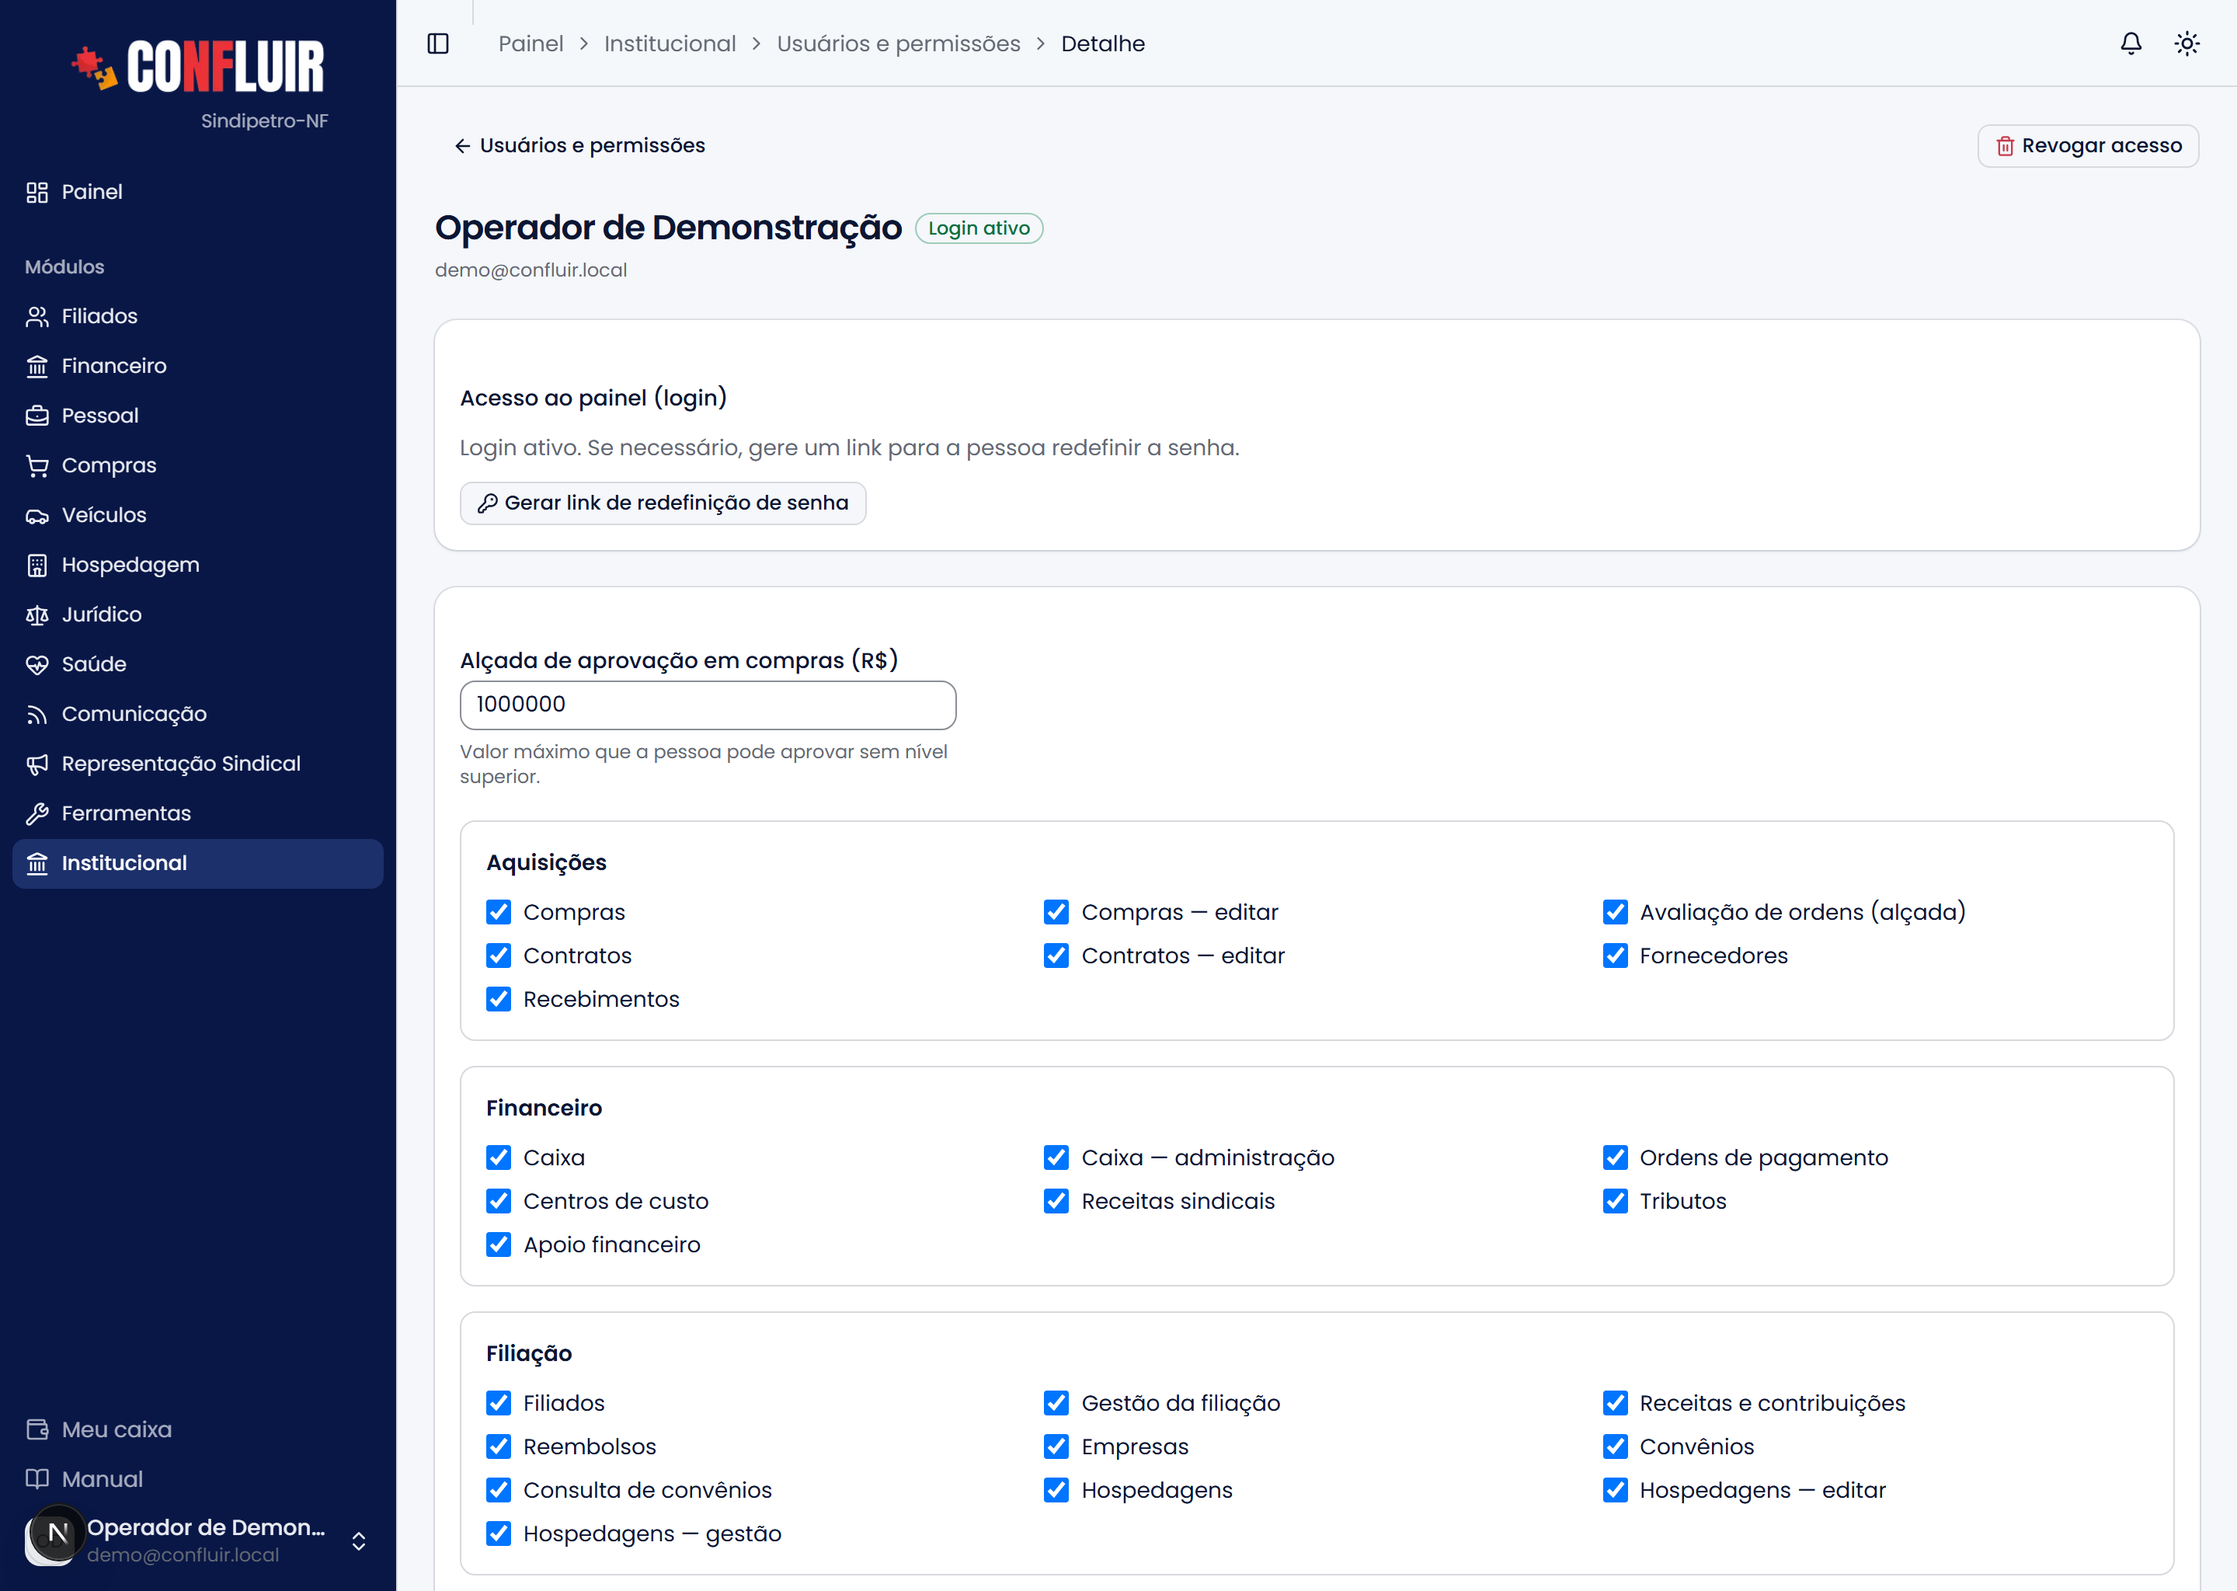
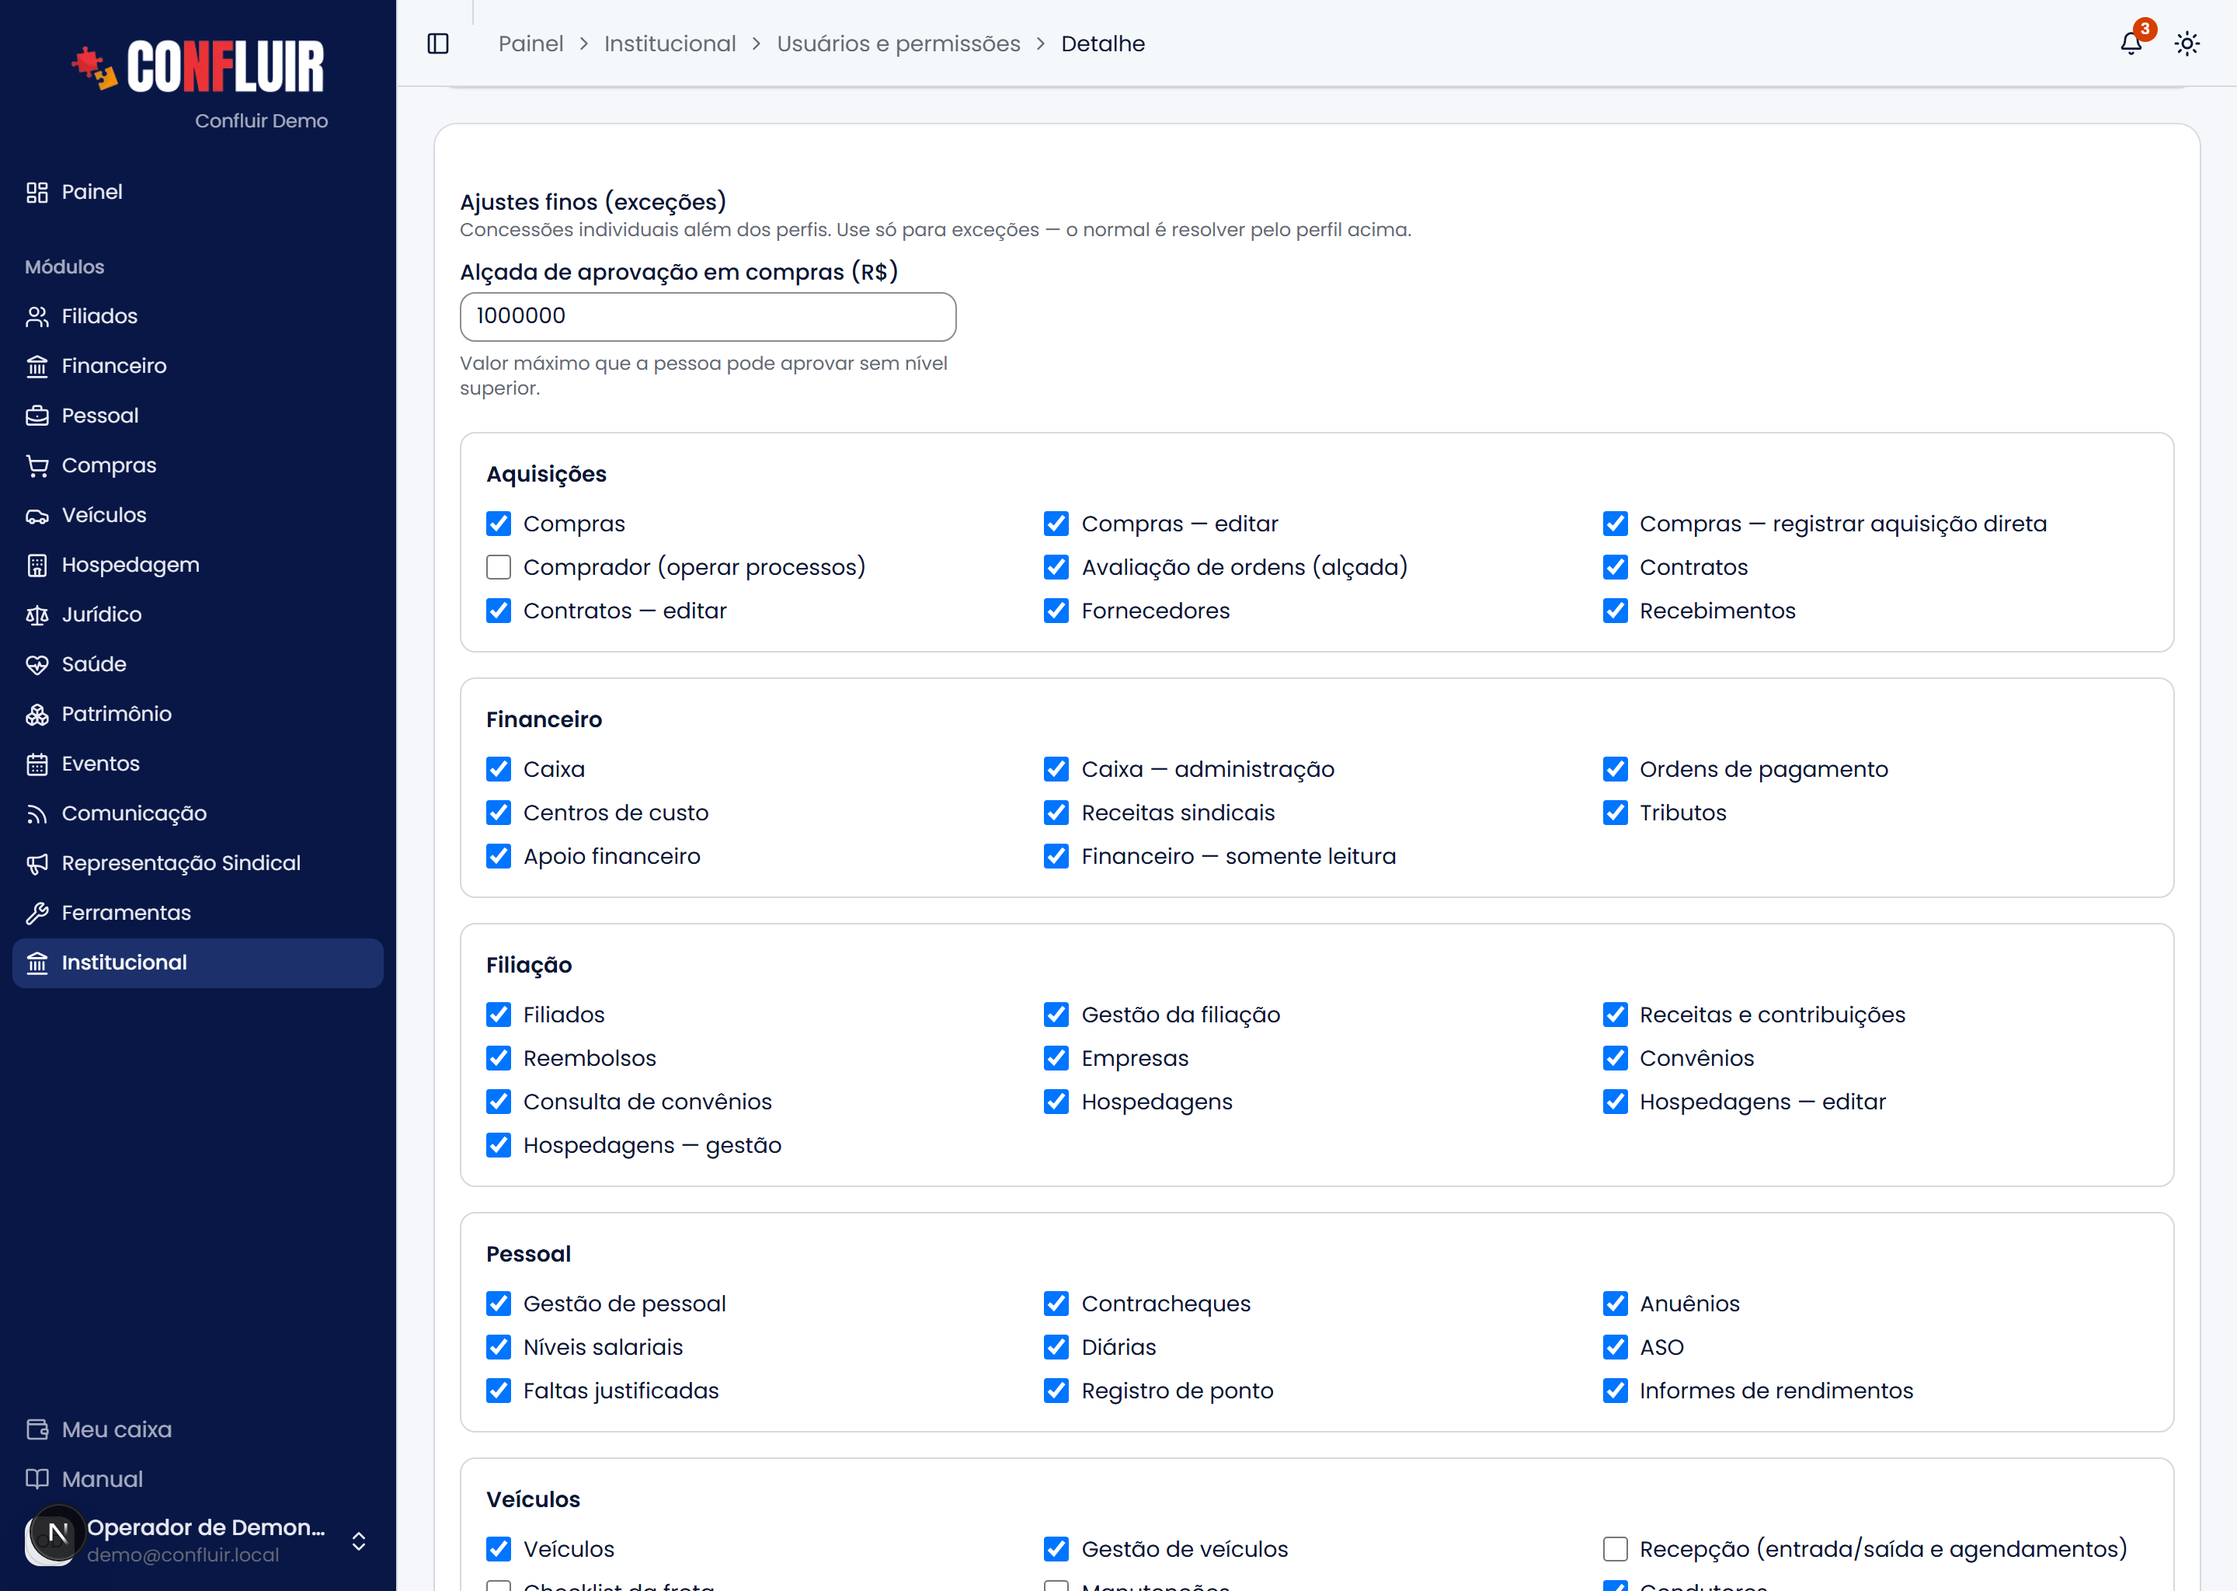
Manual: prints de Usuários e permissões, Nova pessoa e Quadro da entidade
Print dos ajustes finos refeito (o antigo era de antes dos perfis de acesso e
mostrava o tenant real) e dois novos: o formulário Nova pessoa e o Quadro da
entidade com um caso a conferir (demo: Rodrigo Alves Prado). manual-prints.mjs
aceita uma sequência de cliques em abrir.

diff --git a/src/lib/ajuda/base-conhecimento.ts b/src/lib/ajuda/base-conhecimento.ts
@@ -227,7 +227,7 @@ export const BASE_AJUDA: ArtigoBase[] = [
   {
     "area": "institucional",
     "slug": "usuarios",
-    "texto": "A área de Usuários e permissões define quem acessa o painel e o que cada\npessoa pode ver e editar.\n\n Gerenciar usuários e permissões \n\n Usuário do sistema × filiado\n\nSão coisas diferentes: \n Ser filiado não dá acesso ao painel. Um usuário do sistema é quem tem um\n registro de permissões — é isso que o login do painel exige. O filiado acessa\n a área dele pelo portal, com regras próprias.\n \n\n Dar acesso a uma pessoa\n\n \n \nEncontre a pessoa: \n Em Conceder acesso a uma pessoa, busque por nome ou CPF. A busca procura\n no cadastro de usuários — funcionários, diretores e quem já tem conta.\n \n \nNão encontrou? Nova pessoa: \n Clique em Nova pessoa e informe nome completo, CPF, e-mail e,\n se houver, o vínculo com a entidade (funcionário, diretor, prestador de\n serviço, jovem aprendiz ou estagiário). Clique em Cadastrar e conceder acesso.\n \n \nPerfis e convite: \n A página da pessoa abre em seguida: marque os perfis de acesso e clique\n em Conceder login — o convite vai para o e-mail informado, e ela define a\n própria senha.\n \n \n\nA Nova pessoa não duplica cadastros: \n Se o CPF já está no cadastro de usuários, a tela mostra quem é e oferece\n Conceder acesso a esse cadastro, em vez de criar outro. O mesmo vale para\n um cadastro antigo, sem CPF, com o mesmo e-mail. Um e-mail que já é de\n outra pessoa é recusado: o login é pelo e-mail, e duas pessoas não podem\n dividi-lo.\n \n\nCom vínculo, a pessoa passa a contar no quadro da entidade (aniversários do\npainel, convite em lote). Sem vínculo — um consultor, um contador externo\n—, ela tem só o acesso que você der.\n\n Quadro da entidade\n\nEm Usuários e permissões → Quadro da entidade fica a classificação de cada\npessoa: Funcionário(a), Diretor(a), Prestador(a) de serviço,\nJovem aprendiz ou Estagiário(a). Duas informações dizem quem é da\nentidade, e a tela mostra as duas lado a lado:\n\n- a classificação — decide quem aparece nos aniversários do painel, no\n caixa (funcionários e diretores) e no convite em lote;\n- o vínculo trabalhista com a entidade — decide quem aparece no Pessoal.\n\nA tela abre em A conferir: quem tem alguma coisa que não bate, com o motivo\ne uma sugestão (clique nela para escolher):\n\n| Alerta | O que costuma ser |\n|---|---|\n| Classificado, mas só tem vínculo com outra empresa | Trabalhador de fonte pagadora que entrou no cadastro ao votar |\n| Vínculo com a entidade com a matrícula de outra empresa | O mesmo — o vínculo foi gravado com o empregador errado |\n| Ativo no Pessoal sem classificação | Funcionário, aprendiz ou estagiário que falta classificar |\n| Cadastro excluído com vínculo aberto | Ex-funcionário: registre a demissão no Pessoal |\n\nNão é da entidade: \n Escolher Não é da entidade tira a classificação. Se a pessoa tem vínculo\n trabalhista com a entidade, a tela pede para confirmar a exclusão do\n vínculo — e ela sai do Pessoal. Quem tem contracheque, ponto ou férias\n lançados trabalha ou trabalhou aqui: a exclusão é recusada; se saiu, registre\n a demissão no Pessoal.\n \n\nDiretores costumam ter vínculo com a empresa onde trabalham — isso não gera\nalerta, e a tela nunca sugere tirá-los do quadro.\n\n Perfis de acesso (o caminho recomendado)\n\nEm vez de marcar dezenas de permissões pessoa por pessoa, você define perfis\n— pacotes de permissões — e atribui um perfil a cada pessoa.\n\nPor que perfis: \n Editar um perfil repercute em todos que o têm. Assim, dar acesso vira\n “escolher um perfil” (ex.: Financeiro / Tesouraria), e mudar a política de uma\n área é um ajuste só, não um por usuário.\n \n\n \n \nEscolha o perfil da pessoa: \n Ao editar um usuário, marque um ou mais perfis. As permissões do perfil\n passam a valer para ela.\n \n \nGerencie os perfis: \n Em Perfis de acesso você cria perfis e define o que cada um libera. Os\n perfis “de fábrica” já vêm prontos e podem ser ajustados.\n \n \n\n \n\nSepare quem lança de quem autoriza: \n Os perfis já trazem essa separação: perfis operacionais (Financeiro, Compras)\n lançam, e só a Diretoria/Coordenação autoriza (alçadas). Manter isso é\n o controle interno.\n \n\n \n\n Só leitura, quando faz sentido\n\nAlguns papéis só precisam ver — o Conselho Fiscal é o caso clássico. Um\nperfil de leitura mostra os dados sem nenhum botão de escrita, e a navegação já\nentra restrita ao que ele libera.\n\n \n\n \n\n Compras: departamentos\n\nNa página da pessoa, o cartão Compras: departamentos define por quais\ndepartamentos ela registra compras e vê as compras em Compras (além das que\nela mesma registrou). Marque os departamentos e salve; nenhum marcado =\ntodos. Quem pode registrar aquisição direta é a permissão Compras —\nregistrar aquisição direta, nos perfis ou nos ajustes finos.\n\n Ajustes finos (exceções)\n\nQuando uma pessoa precisa de algo além do seu perfil, use os ajustes\nindividuais na edição do usuário — as mesmas permissões por área, marcadas caso\na caso. É a exceção; o normal é resolver pelo perfil.\n\nAlçada de aprovação: \n Para quem autoriza ordens de pagamento, além da permissão há a alçada — o\n valor máximo que a pessoa pode aprovar. No perfil ela já vem definida; no\n ajuste individual você pode sobrepor.\n \n\n \n\n Erros comuns\n\n- \"A pessoa não aparece na busca.\" Ela ainda não está no cadastro de\n usuários: use Nova pessoa. Ser filiado não basta — o cadastro de filiação é\n outro; se ela já tiver conta no portal, a Nova pessoa a encontra pelo CPF.\n- \"Dei o perfil, mas a pessoa não consegue entrar.\" Ter permissões não é o\n mesmo que ter login — a pessoa precisa do convite/credencial de acesso\n (primeiro acesso). Ver Introdução.\n- \"Mudei um perfil e afetou várias pessoas.\" É esperado — editar um perfil\n repercute em todos que o têm. Para uma exceção de uma pessoa só, use o\n ajuste individual.\n- \"A pessoa autoriza acima do que devia.\" Ajuste a alçada (o valor\n máximo que ela aprova), no perfil ou no ajuste individual.\n- \"O Conselho Fiscal está editando dados.\" Use um perfil de leitura — ele\n mostra os dados sem botões de escrita."
+    "texto": "A área de Usuários e permissões define quem acessa o painel e o que cada\npessoa pode ver e editar.\n\n Gerenciar usuários e permissões \n\n Usuário do sistema × filiado\n\nSão coisas diferentes: \n Ser filiado não dá acesso ao painel. Um usuário do sistema é quem tem um\n registro de permissões — é isso que o login do painel exige. O filiado acessa\n a área dele pelo portal, com regras próprias.\n \n\n Dar acesso a uma pessoa\n\n \n \nEncontre a pessoa: \n Em Conceder acesso a uma pessoa, busque por nome ou CPF. A busca procura\n no cadastro de usuários — funcionários, diretores e quem já tem conta.\n \n \nNão encontrou? Nova pessoa: \n Clique em Nova pessoa e informe nome completo, CPF, e-mail e,\n se houver, o vínculo com a entidade (funcionário, diretor, prestador de\n serviço, jovem aprendiz ou estagiário). Clique em Cadastrar e conceder acesso.\n \n \nPerfis e convite: \n A página da pessoa abre em seguida: marque os perfis de acesso e clique\n em Conceder login — o convite vai para o e-mail informado, e ela define a\n própria senha.\n \n \n\n \n\nA Nova pessoa não duplica cadastros: \n Se o CPF já está no cadastro de usuários, a tela mostra quem é e oferece\n Conceder acesso a esse cadastro, em vez de criar outro. O mesmo vale para\n um cadastro antigo, sem CPF, com o mesmo e-mail. Um e-mail que já é de\n outra pessoa é recusado: o login é pelo e-mail, e duas pessoas não podem\n dividi-lo.\n \n\nCom vínculo, a pessoa passa a contar no quadro da entidade (aniversários do\npainel, convite em lote). Sem vínculo — um consultor, um contador externo\n—, ela tem só o acesso que você der.\n\n Quadro da entidade\n\nEm Usuários e permissões → Quadro da entidade fica a classificação de cada\npessoa: Funcionário(a), Diretor(a), Prestador(a) de serviço,\nJovem aprendiz ou Estagiário(a). Duas informações dizem quem é da\nentidade, e a tela mostra as duas lado a lado:\n\n- a classificação — decide quem aparece nos aniversários do painel, no\n caixa (funcionários e diretores) e no convite em lote;\n- o vínculo trabalhista com a entidade — decide quem aparece no Pessoal.\n\nA tela abre em A conferir: quem tem alguma coisa que não bate, com o motivo\ne uma sugestão (clique nela para escolher):\n\n| Alerta | O que costuma ser |\n|---|---|\n| Classificado, mas só tem vínculo com outra empresa | Trabalhador de fonte pagadora que entrou no cadastro ao votar |\n| Vínculo com a entidade com a matrícula de outra empresa | O mesmo — o vínculo foi gravado com o empregador errado |\n| Ativo no Pessoal sem classificação | Funcionário, aprendiz ou estagiário que falta classificar |\n| Cadastro excluído com vínculo aberto | Ex-funcionário: registre a demissão no Pessoal |\n\n \n\nNão é da entidade: \n Escolher Não é da entidade tira a classificação. Se a pessoa tem vínculo\n trabalhista com a entidade, a tela pede para confirmar a exclusão do\n vínculo — e ela sai do Pessoal. Quem tem contracheque, ponto ou férias\n lançados trabalha ou trabalhou aqui: a exclusão é recusada; se saiu, registre\n a demissão no Pessoal.\n \n\nDiretores costumam ter vínculo com a empresa onde trabalham — isso não gera\nalerta, e a tela nunca sugere tirá-los do quadro.\n\n Perfis de acesso (o caminho recomendado)\n\nEm vez de marcar dezenas de permissões pessoa por pessoa, você define perfis\n— pacotes de permissões — e atribui um perfil a cada pessoa.\n\nPor que perfis: \n Editar um perfil repercute em todos que o têm. Assim, dar acesso vira\n “escolher um perfil” (ex.: Financeiro / Tesouraria), e mudar a política de uma\n área é um ajuste só, não um por usuário.\n \n\n \n \nEscolha o perfil da pessoa: \n Ao editar um usuário, marque um ou mais perfis. As permissões do perfil\n passam a valer para ela.\n \n \nGerencie os perfis: \n Em Perfis de acesso você cria perfis e define o que cada um libera. Os\n perfis “de fábrica” já vêm prontos e podem ser ajustados.\n \n \n\n \n\nSepare quem lança de quem autoriza: \n Os perfis já trazem essa separação: perfis operacionais (Financeiro, Compras)\n lançam, e só a Diretoria/Coordenação autoriza (alçadas). Manter isso é\n o controle interno.\n \n\n \n\n Só leitura, quando faz sentido\n\nAlguns papéis só precisam ver — o Conselho Fiscal é o caso clássico. Um\nperfil de leitura mostra os dados sem nenhum botão de escrita, e a navegação já\nentra restrita ao que ele libera.\n\n \n\n \n\n Compras: departamentos\n\nNa página da pessoa, o cartão Compras: departamentos define por quais\ndepartamentos ela registra compras e vê as compras em Compras (além das que\nela mesma registrou). Marque os departamentos e salve; nenhum marcado =\ntodos. Quem pode registrar aquisição direta é a permissão Compras —\nregistrar aquisição direta, nos perfis ou nos ajustes finos.\n\n Ajustes finos (exceções)\n\nQuando uma pessoa precisa de algo além do seu perfil, use os ajustes\nindividuais na edição do usuário — as mesmas permissões por área, marcadas caso\na caso. É a exceção; o normal é resolver pelo perfil.\n\nAlçada de aprovação: \n Para quem autoriza ordens de pagamento, além da permissão há a alçada — o\n valor máximo que a pessoa pode aprovar. No perfil ela já vem definida; no\n ajuste individual você pode sobrepor.\n \n\n \n\n Erros comuns\n\n- \"A pessoa não aparece na busca.\" Ela ainda não está no cadastro de\n usuários: use Nova pessoa. Ser filiado não basta — o cadastro de filiação é\n outro; se ela já tiver conta no portal, a Nova pessoa a encontra pelo CPF.\n- \"Dei o perfil, mas a pessoa não consegue entrar.\" Ter permissões não é o\n mesmo que ter login — a pessoa precisa do convite/credencial de acesso\n (primeiro acesso). Ver Introdução.\n- \"Mudei um perfil e afetou várias pessoas.\" É esperado — editar um perfil\n repercute em todos que o têm. Para uma exceção de uma pessoa só, use o\n ajuste individual.\n- \"A pessoa autoriza acima do que devia.\" Ajuste a alçada (o valor\n máximo que ela aprova), no perfil ou no ajuste individual.\n- \"O Conselho Fiscal está editando dados.\" Use um perfil de leitura — ele\n mostra os dados sem botões de escrita."
   },
   {
     "area": "introducao",
